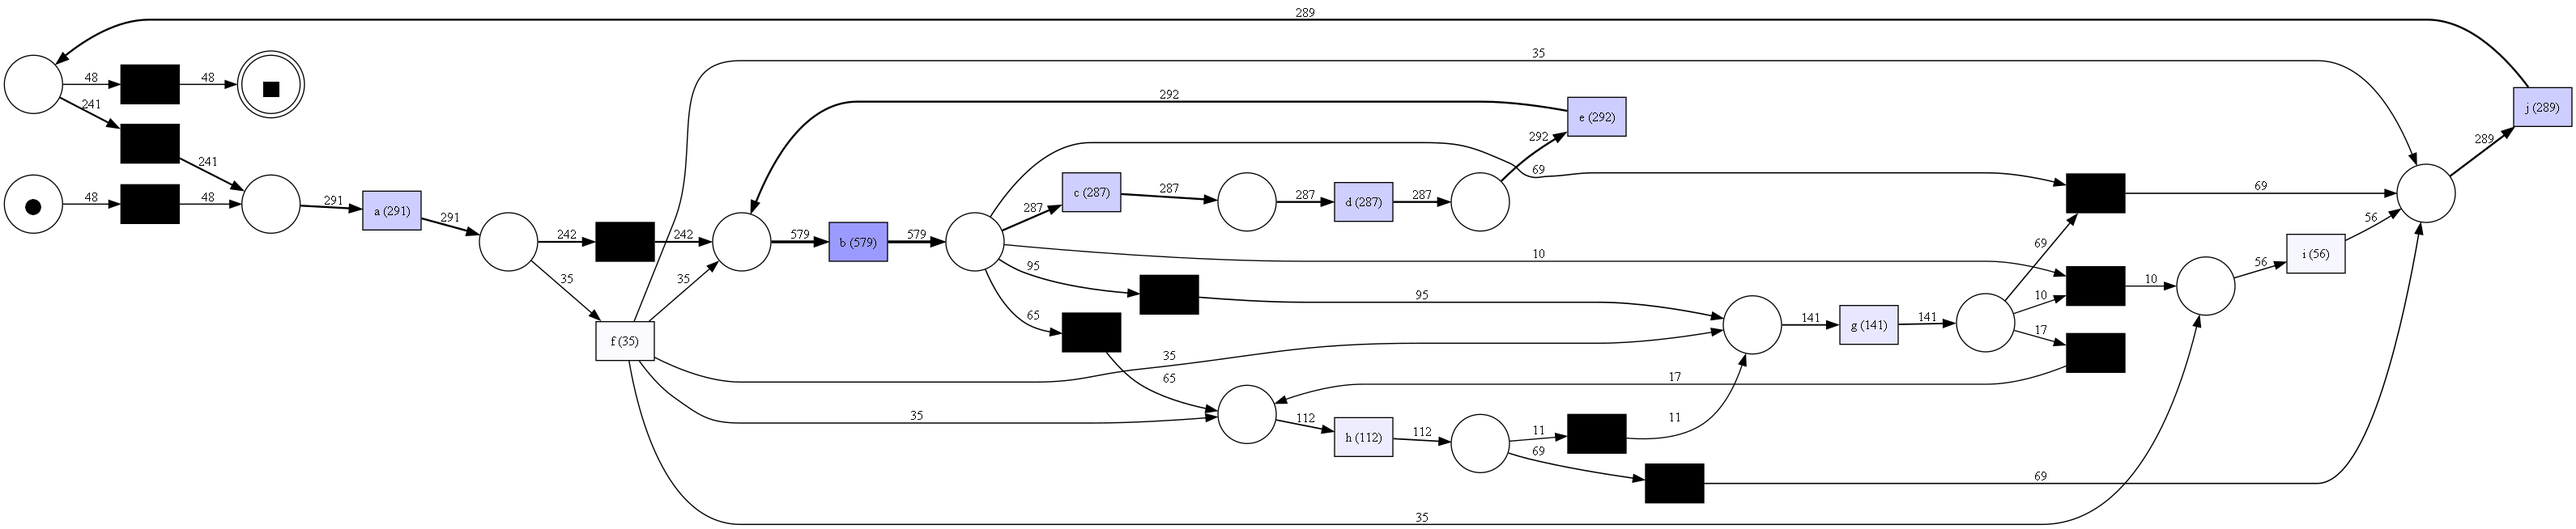
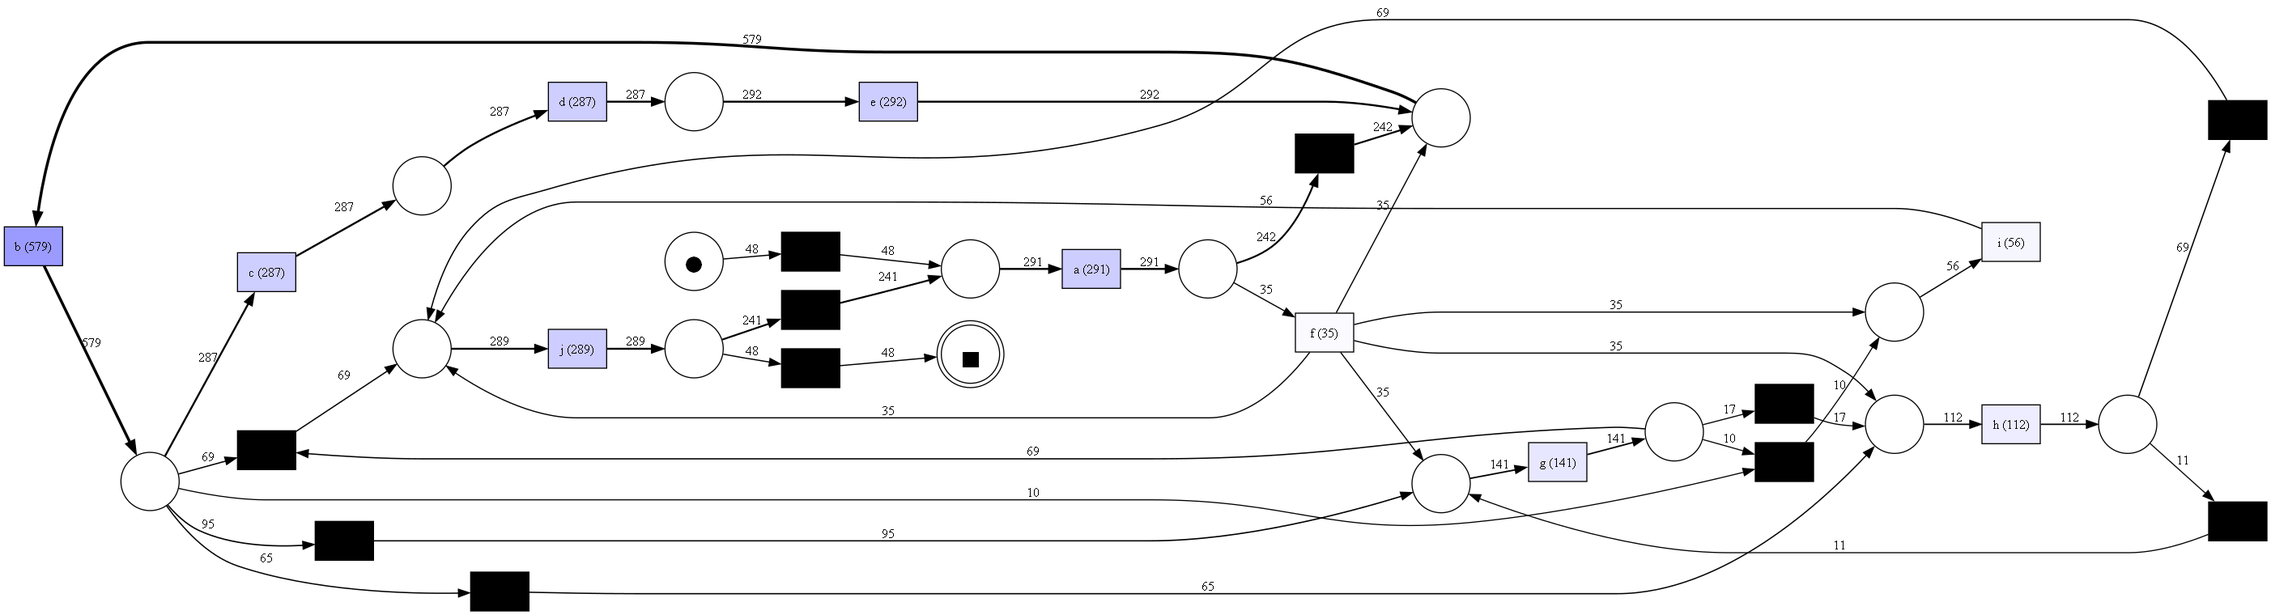
sna visualizer

diff --git a/main.py b/main.py
@@ -1,4 +1,5 @@
 import pandas as pd
+import pm4py
 from sklearn.cluster import KMeans
 import pandas as pd
 from pm4py.objects.conversion.log import converter as log_converter
@@ -12,6 +13,8 @@ from pm4py.visualization.heuristics_net import visualizer as hn_visualizer
 from pm4py.visualization.dfg import visualizer as dfg_visualization
 from pm4py.visualization.process_tree import visualizer as pt_visualizer
 
+from pm4py.objects.conversion.process_tree import converter as pt_converter
+
 from PIL import Image
 
 pd.set_option('display.max_columns', None)
@@ -19,29 +22,28 @@ pd.set_option('display.max_rows', None)
 
 # Load the CSV file into a pandas DataFrame
 df = pd.read_csv('high_performers.csv')
-selected_columns = ['Case_id', 'Activity', 'timestamp', 'Grades']
+selected_columns = ['Case_id', 'Activity', 'timestamp', 'Case']
 df_selected = df[selected_columns]
 df_selected = df_selected.rename(columns={
     'Case_id': 'case:concept:name',
     'Activity': 'concept:name',
     'timestamp': 'time:timestamp',
-    'Grades': 'org:resource'
+    'Case': 'org:resource'
 })
 df_selected['time:timestamp'] = pd.to_datetime(df_selected['time:timestamp'])
 print(df_selected.dtypes)
-print(df_selected)
+# print(df_selected)
 # df_selected = df_selected.sort_values(by=['case:concept:name', 'time:timestamp'])
 # print(df_selected)
 
 log = log_converter.apply(df_selected)
-print(log)
+# print(log)
 
 # ALPHA
 alpha_net, initial_marking, final_marking = alpha_miner.apply(log)
 gviz = pn_visualizer.apply(alpha_net, initial_marking, final_marking)
 pn_visualizer.view(gviz)
-# save
-pn_visualizer.save(gviz, "alpha_miner.png")
+# pn_visualizer.save(gviz, "alpha_miner.png")
 
 parameters = {pn_visualizer.Variants.FREQUENCY.value.Parameters.FORMAT: "png"}
 gviz = pn_visualizer.apply(alpha_net, initial_marking, final_marking,
@@ -49,7 +51,7 @@ gviz = pn_visualizer.apply(alpha_net, initial_marking, final_marking,
                            variant=pn_visualizer.Variants.FREQUENCY, log=log)
 pn_visualizer.view(gviz)
 # save the Petri net
-pn_visualizer.save(gviz, "alpha_miner_petri_net.png")
+# pn_visualizer.save(gviz, "alpha_miner_petri_net.png")
 
 # Create graph from log
 dfg = dfg_discovery.apply(log)
@@ -76,11 +78,39 @@ gviz = pn_visualizer.apply(net, im, fm,
                            variant=pn_visualizer.Variants.FREQUENCY,
                            log=log)
 pn_visualizer.view(gviz)
-pn_visualizer.save(gviz, 'heuristic_miner_petri_net.png')
+# pn_visualizer.save(gviz, 'heuristic_miner_petri_net.png')
 
 # Inductive miner
 # create the process tree
 tree = inductive_miner.apply(log)
 gviz = pt_visualizer.apply(tree)
 pt_visualizer.view(gviz)
-pt_visualizer.save(gviz, 'inductive_miner.png')
+# pt_visualizer.save(gviz, 'inductive_miner.png')
+
+# convert the process tree to a petri net
+net, initial_marking, final_marking = pt_converter.apply(tree)
+# alternatively, use the inductive_miner to create a petri net from scratch
+# net, initial_marking, final_marking = inductive_miner.apply(log)
+parameters = {pn_visualizer.Variants.FREQUENCY.value.Parameters.FORMAT: "png"}
+gviz = pn_visualizer.apply(net, initial_marking, final_marking,
+                           parameters=parameters,
+                           variant=pn_visualizer.Variants.FREQUENCY,
+                           log=log)
+pn_visualizer.view(gviz)
+# pn_visualizer.save(gviz, "inductive_miner_petri_net.png")
+
+from pm4py.objects.petri_net.utils import performance_map
+
+traces = performance_map.get_transition_performance_with_token_replay(log, net, initial_marking, final_marking)
+print(traces)
+# traces_for_event_a = traces['a']['all_values']
+# print(traces_for_event_a)
+
+from pm4py.visualization.sna import visualizer as sna_vis
+from pm4py.algo.organizational_mining.sna import algorithm as sna_factory
+from pyvis import network as net
+
+handover_nw = sna_factory.log_handover.apply(log)
+# print(handover_nw)
+gviz_hw_py = sna_vis.apply(handover_nw)
+gnx = sna_vis.view(gviz_hw_py)
